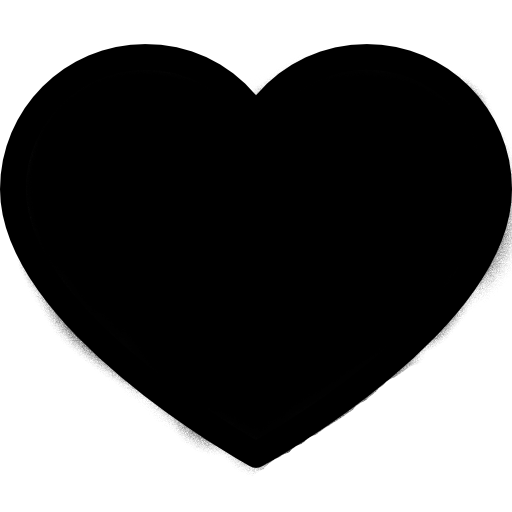
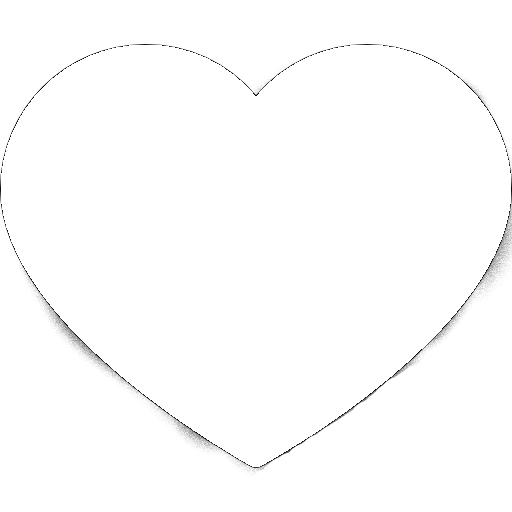
favori Landing Page

diff --git a/src/app/pages/client/landing-pages/landing-pages.component.html b/src/app/pages/client/landing-pages/landing-pages.component.html
@@ -1,5 +1,10 @@
+<div>
 
-<div >
+  <div *ngIf="isLoading"
+       style="position: fixed; width: 100%; height: 100%; display: flex ; justify-content: center; align-items: center; background: white; top: 0; left: 0 ; z-index:  9999;  ">
+    <mat-spinner></mat-spinner>
+  </div>
+
   <header
     class="p-2 col-12 d-flex justify-content-between align-items-center px-4 position-fixed"
     style="z-index: 3"
@@ -9,15 +14,19 @@
 
     <span>Prettier</span>
 
-<!--    ngIf localStorage.getItem('userId') n'est pas null ,-->
+    <!--    ngIf localStorage.getItem('userId') n'est pas null ,-->
 
 
     <!-- Si localStorage.getItem('userId') n'est pas null -->
-    <button *ngIf="login" (click)="goToConnexion()" class="btn btn-primary">Connexion</button>
+    <button *ngIf="login" (click)="goToConnexion()" mat-flat-button
+            style="background-color: #e84393; color: white">Connexion
+    </button>
 
     <!-- Sinon, affiche le bouton pour prendre un rendez-vous -->
-    <button *ngIf="!login" (click)="goToRDV()" class="btn btn-primary">Prendre un rendez-vous</button>
-<!--    Sinon button prendre un rendez vous onclick(goToRDV)-->
+    <button *ngIf="!login" (click)="goToRDV()" mat-flat-button
+            style="background-color: #e84393; color: white">Prendre un rendez-vous
+    </button>
+    <!--    Sinon button prendre un rendez vous onclick(goToRDV)-->
 
 
   </header>
@@ -25,7 +34,7 @@
     style="height: 100vh"
     class="background-menu col-12 d-flex justify-content-start align-items-center"
   >
-    <img src="../../../../assets/login_img.jpg" alt="" class="img" />
+    <img src="../../../../assets/login_img.jpg" alt="" class="img"/>
     <span style="font-size: 40px" class="mx-5 p-3 bg-white"
     >Envie de vous faire une beauté?</span
     >
@@ -43,15 +52,27 @@
     </header>
     <div class="container">
       <div class="row d-flex flex-row justify-content-start">
-        <div class="col-sm-4 col-12 p-2" *ngFor="let item of servicesListResearch">
+        <div class="col-lg-4 col-12 p-2" *ngFor="let item of servicesListResearch ; let i = index">
           <div
             class="d-flex flex-column service"
-            style="height: 25rem; overflow: hidden"
+            style="height: 25rem; "
           >
             <div
               class="d-flex justify-content-center"
-              style="height: 80%; overflow: hidden"
+              style="height: 80%; "
             >
+
+
+              <button *ngIf="!login" (click)="item.favori == 0 ? favoriser(item._id , i) : delete(item._id , i)  "
+                      mat-mini-fab color="primary" class="icon-30 position-absolute  "
+                      style=" right: 20px ; top: 20px; " matTooltip="Add to Cart">
+                <img
+                  src="../../../../assets/images/{{ item.favori == 0 ? 'coeurVide.png' : 'coeurPlein.png'  }}"
+                  alt=""
+                  style="width: 1rem"
+                />
+              </button>
+
               <img
                 [src]="item.image"
                 alt=""
@@ -60,28 +81,18 @@
             </div>
             <div class="description p-2" style="height: 20%">
               <div class="d-flex justify-content-between">
-                <span>
-<!--                          <button-->
-<!--                            mat-mini-fab-->
-<!--                            color="primary"-->
-<!--                            class="icon-30 cart-btn"-->
-<!--                            matTooltip="Add to Cart"-->
-<!--                          >-->
-<!--        </button>-->
 
-                  Favori
-                </span>
                 <span>
                   <b>{{ item.description }}</b></span
                 >
                 <span
                   style="background-color: pink; border-radius: 12px"
                   class="px-2"
-                >{{ item.prix.toLocaleString() }}</span
+                >{{ item.prix.toLocaleString() }} Ar</span
                 >
               </div>
               <span>
-                {{ item.duree }}
+                Durée : {{ item.duree }} mn
               </span>
             </div>
           </div>

diff --git a/src/app/pages/client/landing-pages/landing-pages.component.ts b/src/app/pages/client/landing-pages/landing-pages.component.ts
@@ -10,6 +10,8 @@ import {basicImportsModule} from "../../../basicImports.module";
 import {ServicesService} from "../../../services/controllers/services.service";
 import {Service} from "../../../models/interfaces";
 import {Router} from "@angular/router";
+import axios from "axios";
+import {url} from "../../../app.component";
 
 @Component({
   selector: 'app-landing-pages',
@@ -85,28 +87,31 @@ export class LandingPagesComponent {
 
   isLoading: boolean = false;
   // servicesListResearch: Service[] | undefined;
-  servicesListResearch: any | undefined;
+  servicesListResearch: any[]  = [];
   constructor(private servicesService: ServicesService , private router: Router) { }
 
   login: boolean = true;
   async ngOnInit(): Promise<void> {
-    if (localStorage.getItem('userId')){
-      this.login = false;
-    }
+
 
 
     this.isLoading = true;
     try {
-      const servicesList = await this.servicesService.getServicesList();
-      console.log('Services list:', servicesList);
 
-      this.servicesListResearch = servicesList;
-      console.log('RECHERCHE + ' + this.servicesListResearch)
+      if (localStorage.getItem('userId')){
+        this.login = false;
+        const servicesList = await this.servicesService.getServicesListUser(<string>localStorage.getItem('userId'));
+        console.log('Services list:', servicesList);
 
-
-      //  Service barre recherche
-
-
+        this.servicesListResearch = servicesList;
+        console.log('RECHERCHE + ' + this.servicesListResearch)
+      }
+      else{
+        const servicesList = await this.servicesService.getServicesList();
+        console.log('Services list:', servicesList);
+        this.servicesListResearch = servicesList;
+        console.log('RECHERCHE + ' + this.servicesListResearch)
+      }
     } catch (error) {
       console.error('Erreur lors de la récupération de la liste des services :', error);
     } finally {
@@ -122,5 +127,42 @@ export class LandingPagesComponent {
 
   goToRDV() {
     this.router.navigate(['dashboard/rendezVous']);
+  }
+
+  async delete(idService: string, i: number) {
+    try {
+      this.servicesListResearch[i].favori = 0;
+      const idUser = <string>localStorage.getItem('userId');
+
+      const dataToSEnd = {
+        client: idUser,
+        service: idService
+      };
+
+      const response = await axios.post(`${url}/preference/delete`, dataToSEnd);
+      console.log('Préférence supprimée avec succès :', response.data);
+
+
+    } catch (e) {
+      alert(e);
+    }
+
+  }
+
+  async favoriser(idService: string, i: number) {
+    try {
+      const idUser = <string>localStorage.getItem('userId');
+      this.servicesListResearch[i].favori = 1;
+      const response = await axios.post(`${url}/preference/`, {
+        client: idUser,
+        service: idService
+      });
+
+
+
+    } catch (e) {
+      alert(e);
+    }
+
   }
 }

diff --git a/src/app/services/controllers/services.service.ts b/src/app/services/controllers/services.service.ts
@@ -51,6 +51,18 @@ export class ServicesService {
     }
   }
 
+  async getServicesListUser(idUser : string) {
+    try {
+      const response = await this.webservicesService.getData(`/services/${idUser}`);
+      console.log('Liste des services récupérée :', response);
+      // Gérer la réponse  ici
+      return response;
+    } catch (error) {
+      alert('Erreur : ' + error);
+      console.error('Erreur lors de la récupération de la liste des services :', error);
+      throw error; // Propagation de l'erreur pour la gérer au niveau supérieur
+    }
+  }
 
   async updateService(){
 

diff --git a/src/app/pages/client/landing-pages/landing-pages.component.scss b/src/app/pages/client/landing-pages/landing-pages.component.scss
@@ -5,7 +5,7 @@
 
 @keyframes parallax {
   to {
-    transform: translateY(100px);
+    transform: translateY(50px);
   }
 }
 
@@ -25,6 +25,9 @@
 }
 
 .service:hover {
-  scale: 1.02;
+  //scale: 1.02;
   box-shadow: 0px 0px 10px 0px rgba(0, 0, 0, 0.402);
 }
+
+
+
